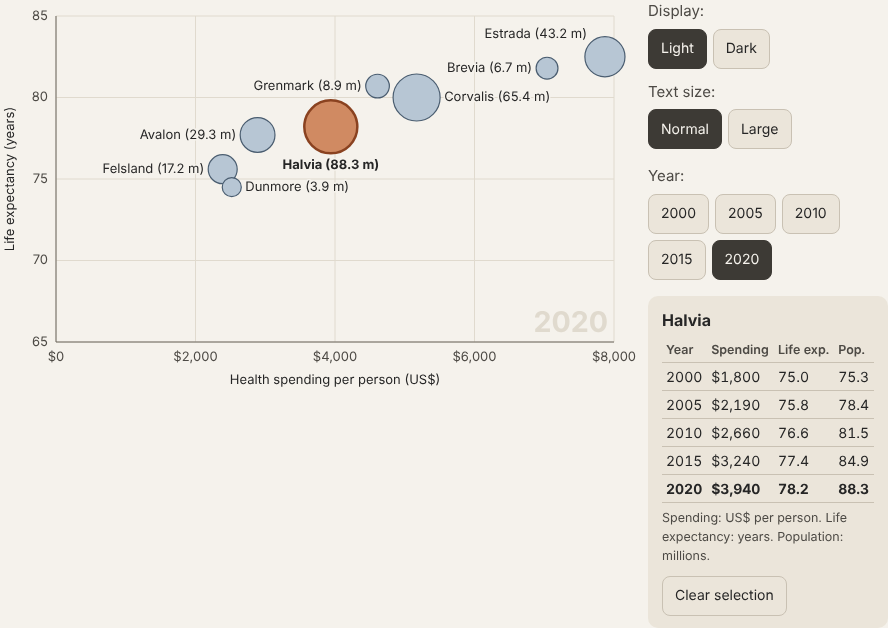
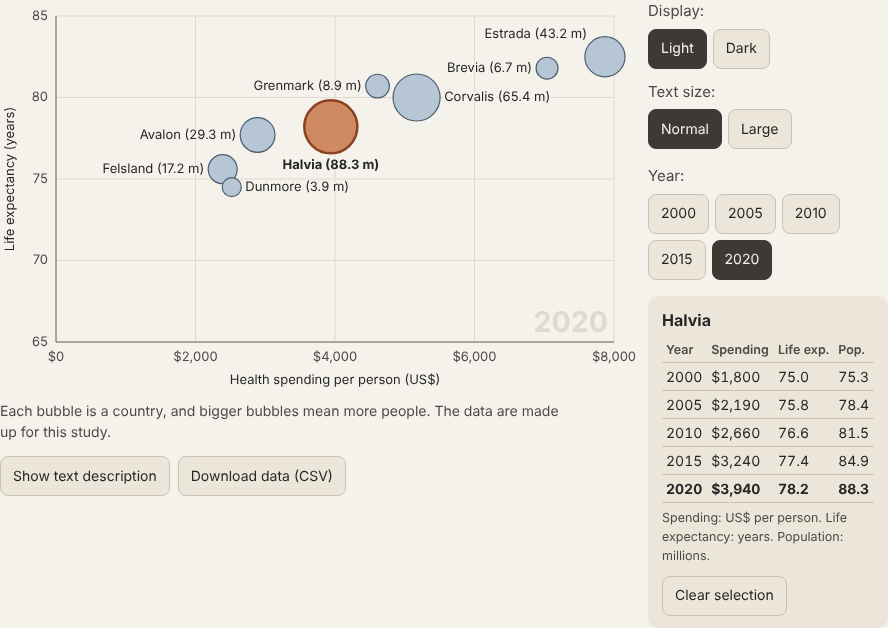
Add files via upload

Changed region(s): [[0.0, 0.6354, 0.6385, 0.6959], [0.0, 0.7261, 0.3953, 0.7866]]

diff --git a/news.html b/news.html
@@ -444,12 +444,14 @@ function build() {
     stopBtn.onclick = () => { stopPlay(); log('stop'); };
     panel = htmlEl('div', { class: 'panel', 'aria-live': 'polite' }, side);
   }
-  htmlEl('p', { class: V === 2 ? 'note caption' : 'note' }, wrap, V === 2
+  // caption, tools and description sit in the chart column, so they stay directly under the chart
+  // even when the side panel grows (for example, when a country is selected)
+  htmlEl('p', { class: V === 2 ? 'note caption' : 'note' }, chartbox, V === 2
     ? 'Each line shows how often news articles mentioned one topic each year. Dashed lines mark the events. The data are made up for this study.'
     : UNIT + '. The data are made up for this study.');
   if (V === 2) {
-    buildTools(wrap, { onDescribe: (open) => { desc.hidden = !open; updateDesc(); postHeight(); }, onDownload: download });
-    desc = htmlEl('div', { class: 'desc', id: 'desc', hidden: '' }, wrap);
+    buildTools(chartbox, { onDescribe: (open) => { desc.hidden = !open; updateDesc(); postHeight(); }, onDownload: download });
+    desc = htmlEl('div', { class: 'desc', id: 'desc', hidden: '' }, chartbox);
   }
 
   onDisplayChange(() => render());

diff --git a/health.html b/health.html
@@ -460,12 +460,14 @@ function build() {
       htmlEl('span', null, it, c.name);
     });
   }
-  htmlEl('p', { class: V === 2 ? 'note caption' : 'note' }, wrap, V === 2
+  // caption, tools and description sit in the chart column, so they stay directly under the chart
+  // even when the side panel grows (for example, when a country is selected)
+  htmlEl('p', { class: V === 2 ? 'note caption' : 'note' }, chartbox, V === 2
     ? 'Each bubble is a country, and bigger bubbles mean more people. The data are made up for this study.'
     : 'Bubble size shows population. The data are made up for this study.');
   if (V === 2) {
-    buildTools(wrap, { onDescribe: (open) => { desc.hidden = !open; updateDesc(); postHeight(); }, onDownload: download });
-    desc = htmlEl('div', { class: 'desc', id: 'desc', hidden: '' }, wrap);
+    buildTools(chartbox, { onDescribe: (open) => { desc.hidden = !open; updateDesc(); postHeight(); }, onDownload: download });
+    desc = htmlEl('div', { class: 'desc', id: 'desc', hidden: '' }, chartbox);
   }
 
   onDisplayChange(() => { render(); });
